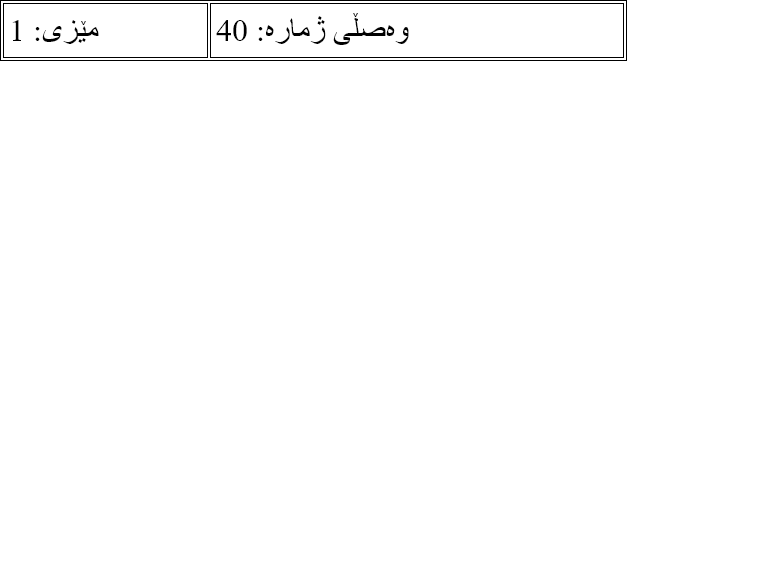
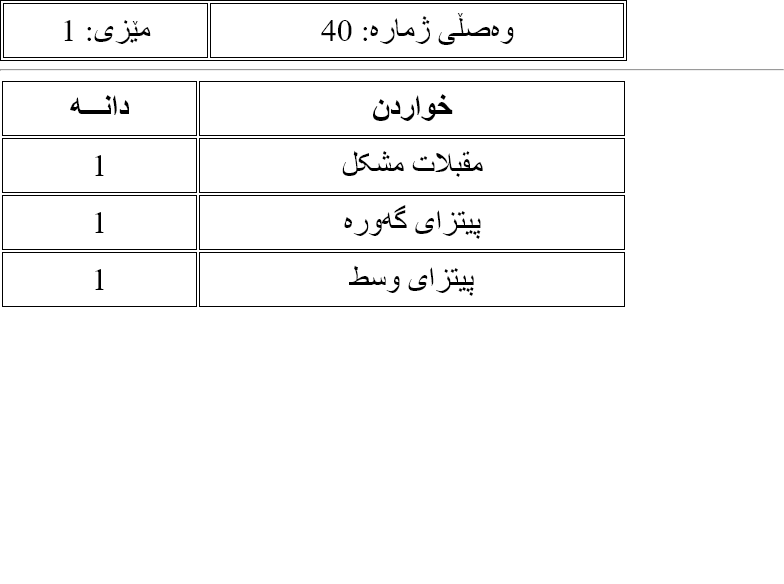
commit

diff --git a/app.js b/app.js
@@ -181,20 +181,40 @@ app.post("/print", (req, res) => {
   // }
   // fs.writeFileSync( req.body.invoiceNumber + '.png', text2png(text, {color: 'black', padding: 40}));
    let html = '<html> <head> <meta charset="utf-8"> </head> <body> ';
-   html += '<table style="border: 1px solid; font-size: 32px; width: 80%;">';
+   html += '<table style="border: 1px solid; font-size: 32px; width: 73.5%;">';
    html += '<tbody>';
    html += '<tr style="border: 1px solid;">';
-   html += `<td style="border: 1px solid; padding: 8px 5px;"> مێزی: ${req.body.tableNum} </td>`;
-   html += `<td style="border: 1px solid; padding: 8px 5px;"> وەصڵی ژمارە: ${req.body.invoiceNumber} </td>`;
+   html += `<td style="border: 1px solid; padding: 8px 5px; text-align: center;"> مێزی: ${req.body.tableNum} </td>`;
+   html += `<td style="border: 1px solid; padding: 8px 5px; text-align: center;"> وەصڵی ژمارە: ${req.body.invoiceNumber} </td>`;
    html += '</tr>';
    html += '</tbody>';
    html += '</table>';
 
    html += "<hr>"
-   
-  //  for(let food of req.body.foods) {
-  //     html += food.qty + ' ' + food.food_name + ' \n\n';
-  //   }
+
+   html += '<table style="font-size: 32px; width: 73.5%;">';
+   html += '<thead>';
+   html += '<tr style="border: 1px solid;">';
+   html += `<th style="border: 1px solid; padding: 8px 5px; text-align: center;"> دانـــە </th>`;
+   html += `<th style="border: 1px solid; padding: 8px 5px; text-align: center;"> خواردن </th>`;
+   html += '</tr>';
+   html += '<tbody>';
+    for(let food of req.body.foods) {
+      html += '<tr style="border: 1px solid;">';
+      html += `<td style="border: 1px solid; padding: 8px 5px; text-align: center;"> ${food.qty} </td>`;
+      html += `<td style="border: 1px solid; padding: 8px 5px; text-align: center;"> ${food.food_name} </td>`;
+      html += '</tr>'
+
+      html += '<tr style="border: 1px solid;">';
+      html += `<td style="border: 1px solid; padding: 8px 5px; text-align: center;" colspan="2"> ١ دانە پیازی زۆربێ </td>`;
+      html += '</tr>'
+
+    }
+   html += '</tbody>';
+   html += '</thead>';
+   html += '</table>';
+
+  
   
    html += '</body></html>'
 
@@ -203,7 +223,7 @@ app.post("/print", (req, res) => {
     html
   }).then(() => {
     console.log('Success');
-    // printInvoice(req.body.invoiceNumber);
+    printInvoice(req.body.invoiceNumber);
   })
 
   
